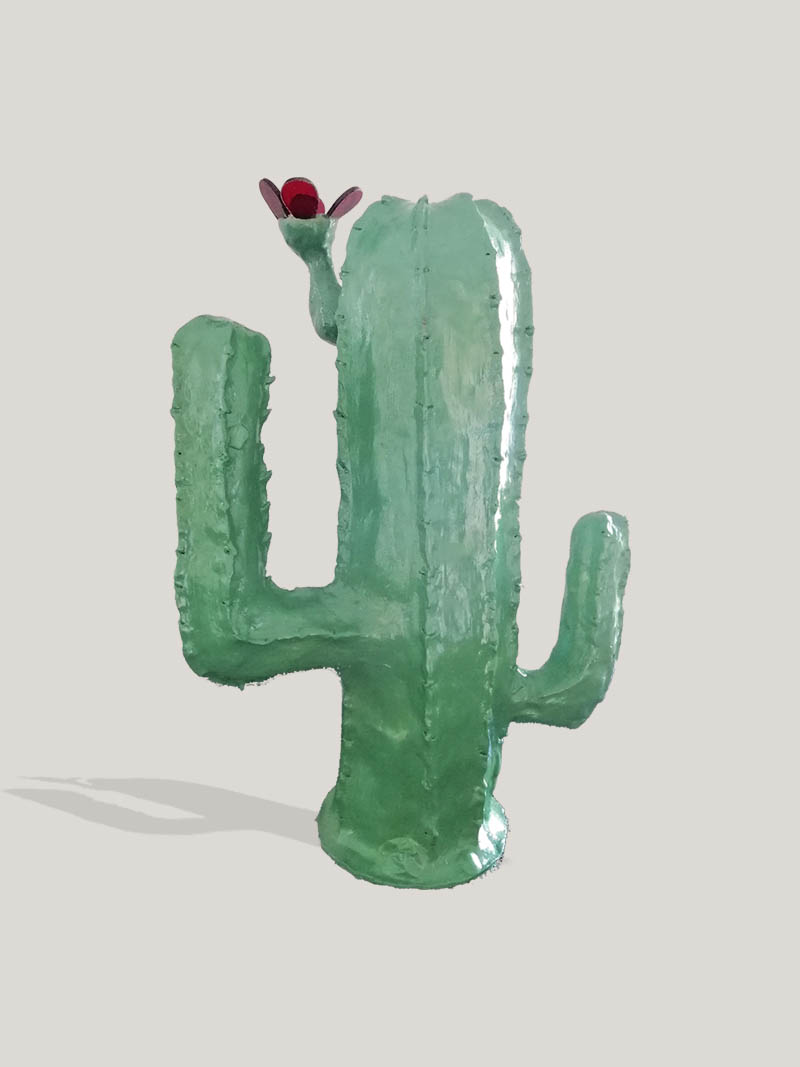
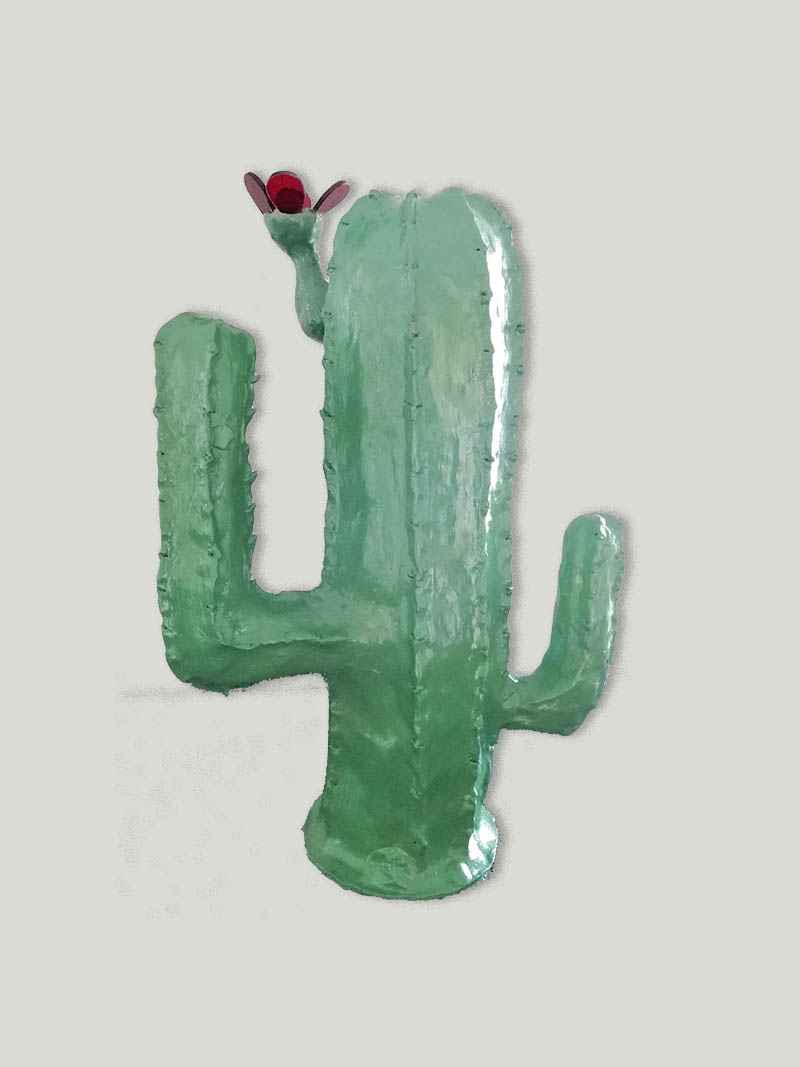
Ajust colors on items

Changed region(s): [[0.1875, 0.1546, 0.8125, 0.866]]

diff --git a/source/stylesheets/config/_colors.scss b/source/stylesheets/config/_colors.scss
@@ -1,5 +1,7 @@
 $white:         #FFFFFF;
-$gray:          #E2E0E0;
-$light-gray:    #e2dfd9;
-$brand-primary: #4a7059;
 $black:         #191919;
+
+$gray:          #e0dfdd;
+$brand-primary: #4a7059;
+
+$margin-body: rgb(224, 226, 224);

diff --git a/source/stylesheets/application.css.scss b/source/stylesheets/application.css.scss
@@ -7,7 +7,7 @@
 @import "pages/index";
 
 body {
-  background-color: $gray;
+  background-color: $margin-body;
   font-family:      $body-font;
   font-size:        20px;
   line-height:      35px;

diff --git a/source/stylesheets/pages/_home.scss b/source/stylesheets/pages/_home.scss
@@ -36,7 +36,7 @@
   content: "\2022";
   display: inline-block;
   margin: 0 20px;
-  color: $light-gray;
+  color: $gray;
 }
 
 .filters-button-group .button:last-child:after
